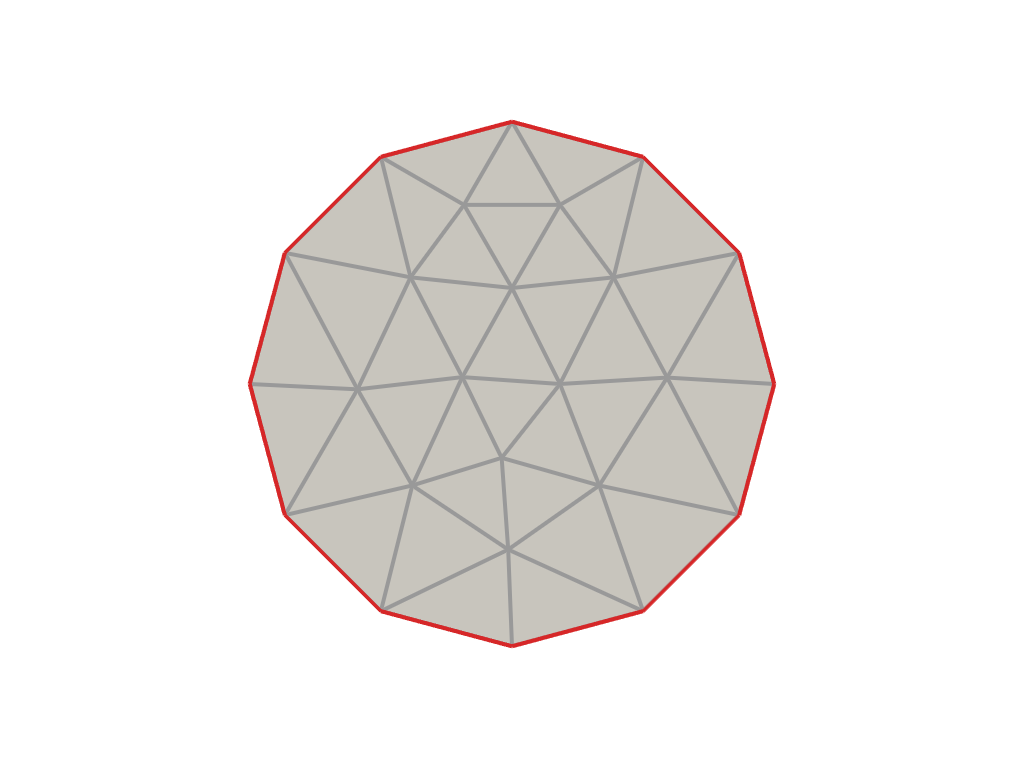
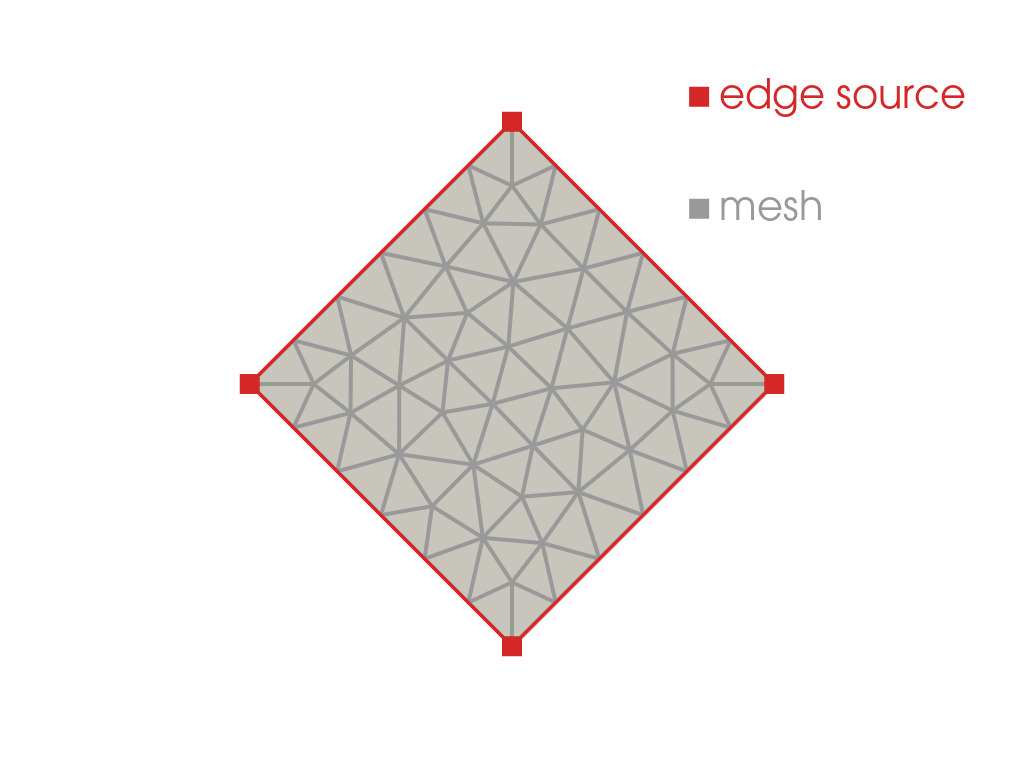
Update README.md

Changed region(s): [[0.2188, 0.125, 0.8125, 0.875], [0.6562, 0.0938, 0.9375, 0.1562]]

diff --git a/src/skgmsh/__init__.py b/src/skgmsh/__init__.py
@@ -61,12 +61,14 @@ def frontal_delaunay_2d(
     >>> import pyvista as pv
     >>> import skgmsh as sg
 
-    >>> edge_source = pv.Polygon(n_sides=12, radius=8, fill=False)
-    >>> mesh = sg.frontal_delaunay_2d(edge_source, target_sizes=8.0)
+    >>> edge_source = pv.Polygon(n_sides=4, radius=8, fill=False)
+    >>> mesh = sg.frontal_delaunay_2d(edge_source, target_sizes=2.0)
 
     >>> plotter = pv.Plotter(off_screen=True)
     >>> _ = plotter.add_mesh(mesh, show_edges=True, line_width=4, color="white", lighting=True, edge_color=[153, 153, 153])
     >>> _ = plotter.add_mesh(edge_source, show_edges=True, line_width=4, color=[214, 39, 40])
+    >>> _ = plotter.add_points(edge_source.points, style="points", point_size=20, color=[214, 39, 40])
+    >>> _ = plotter.add_legend([[" edge source", [214, 39, 40]], [" mesh ", [153, 153, 153]]], bcolor="white", face="r", size=(0.3, 0.3))
     >>> plotter.show(cpos="xy", screenshot="docs/_static/frontal_delaunay_2d_01.png")
 
     """

diff --git a/README.md b/README.md
@@ -54,13 +54,13 @@ import skgmsh as sg
 We can define the surface using PyVista.
 
 ```python
-edge_source = pv.Polygon(n_sides=12, radius=8, fill=False)
+edge_source = pv.Polygon(n_sides=4, radius=8, fill=False)
 ```
 
 We can then generate a 2D mesh.
 
 ```python
-mesh = sg.frontal_delaunay_2d(edge_source, target_sizes=8.0)
+mesh = sg.frontal_delaunay_2d(edge_source, target_sizes=2.0)
 ```
 
 To visualize the model we can use PyVista.
@@ -76,6 +76,15 @@ _ = plotter.add_mesh(
     edge_color=[153, 153, 153],
 )
 _ = plotter.add_mesh(edge_source, show_edges=True, line_width=4, color=[214, 39, 40])
+_ = plotter.add_points(
+    edge_source.points, style="points", point_size=20, color=[214, 39, 40]
+)
+_ = plotter.add_legend(
+    [[" edge source", [214, 39, 40]], [" mesh ", [153, 153, 153]]],
+    bcolor="white",
+    face="r",
+    size=(0.3, 0.3),
+)
 plotter.show(cpos="xy")
 ```
 
